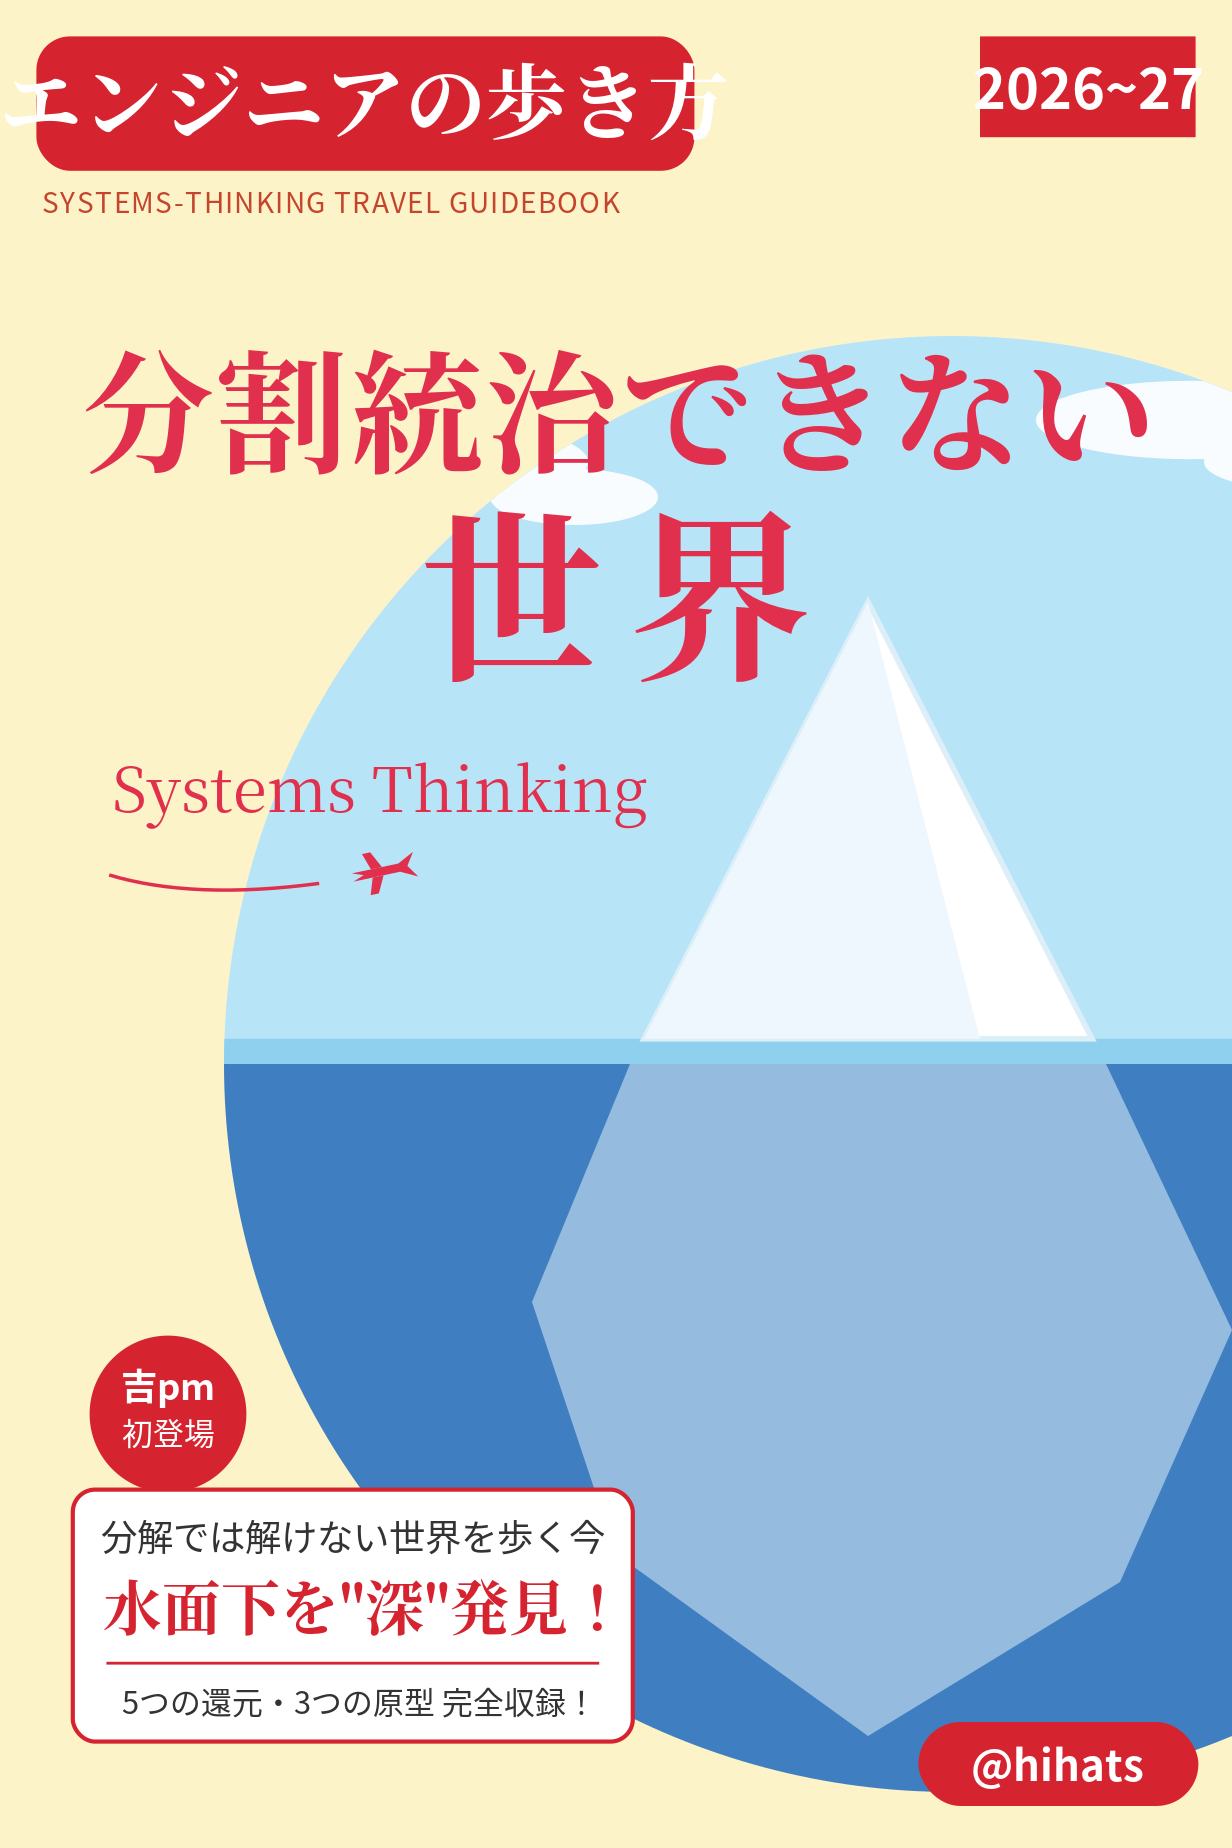
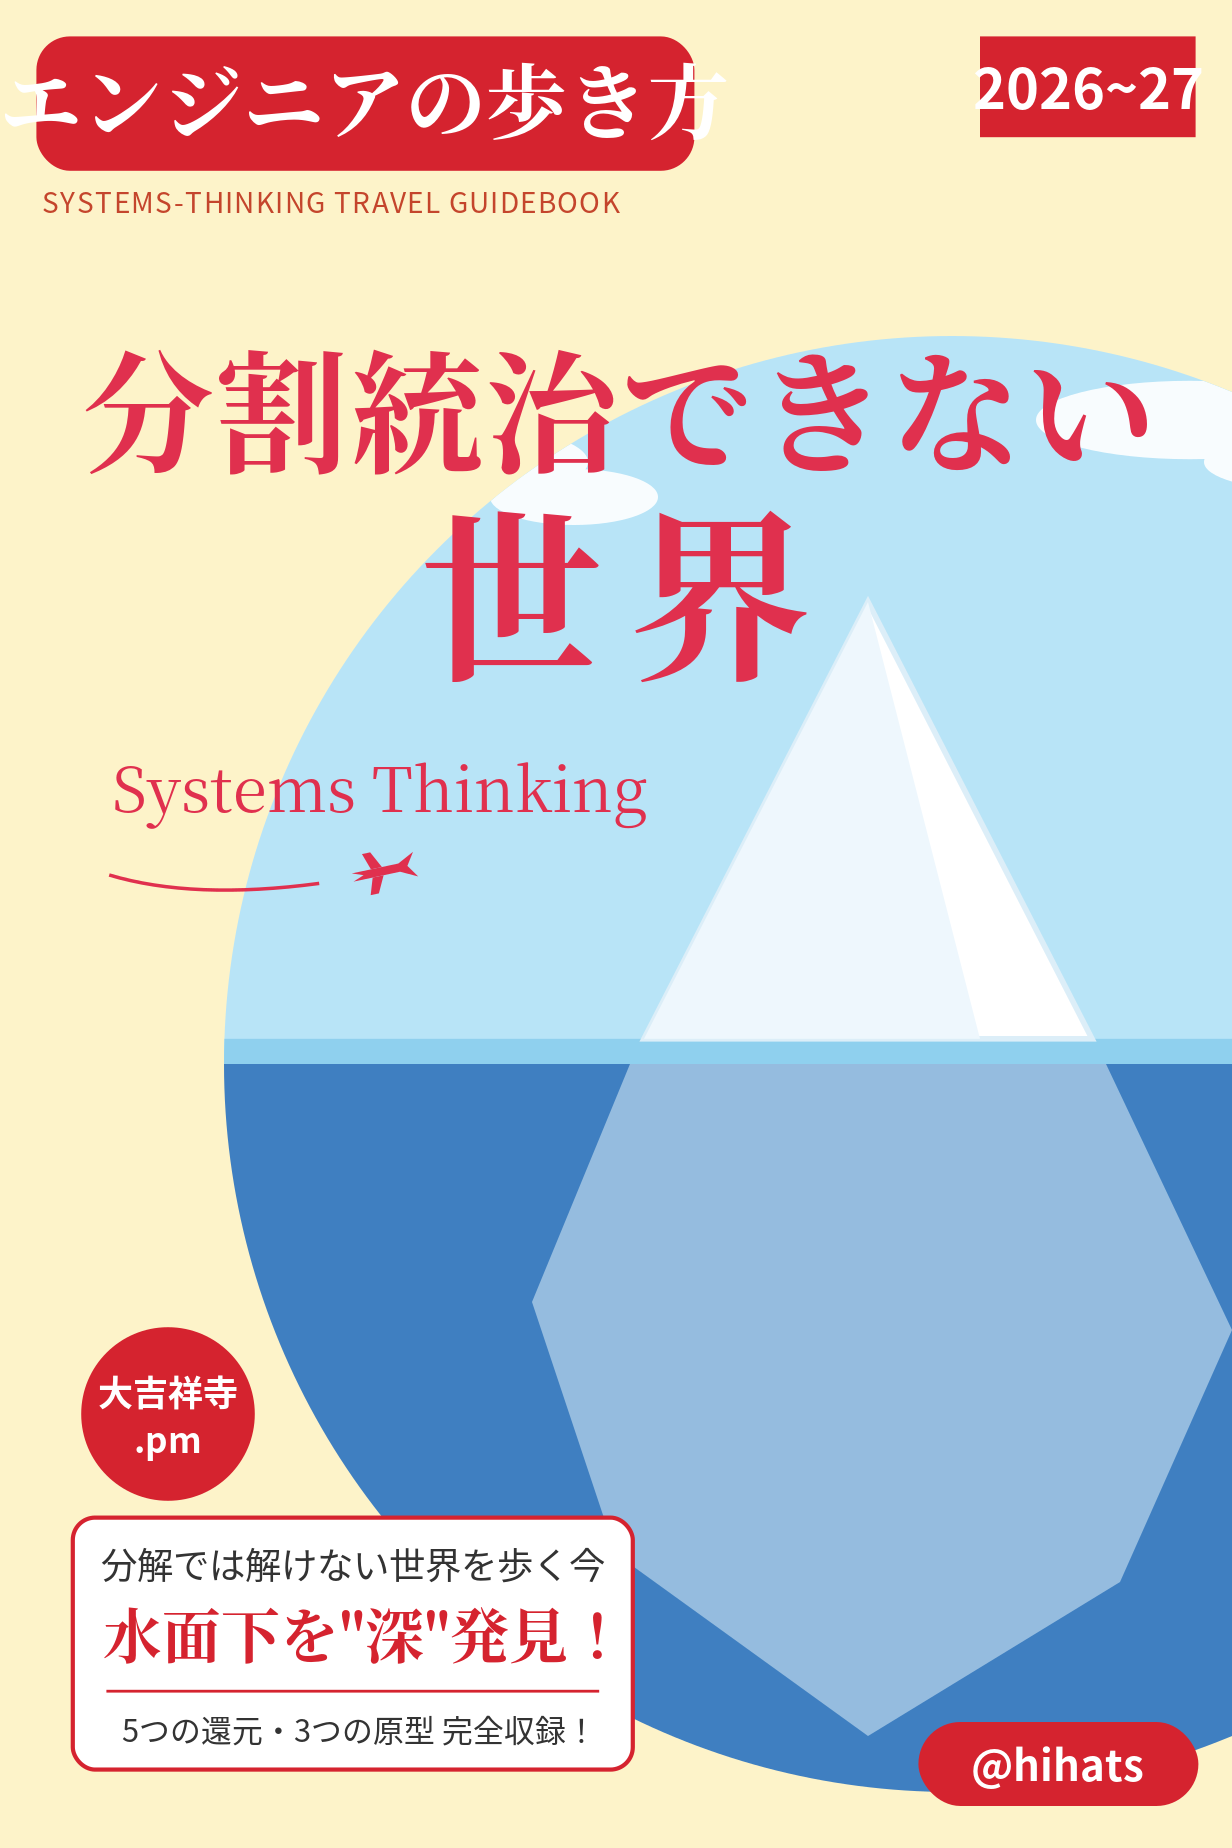
Update beyond_divide_and_conquer deck content and cover image
Restores the author's authoritative draft (naming fallacy aside,
self-deprecating notes) that had diverged in an editor session still
pointing at the old pre-rename path, while keeping the OGP image URL
and meme image reference aligned to the current directory.

Changed region(s): [[0.0617, 0.7094, 0.5244, 0.9562]]

diff --git a/src/beyond_divide_and_conquer/index.md b/src/beyond_divide_and_conquer/index.md
@@ -96,6 +96,16 @@ _class: nolead
 
 ![bg right:52% fit](images/reductionism_history.png)
 
+
+## システム思考とは
+
+**要素そのものではなく、要素間の相互作用からシステム全体の振る舞いを理解する**考え方
+
+- 分解して部分を調べる「分析」の、ちょうど対になる見方 — 関係・フィードバック・遅延に注目する
+- 道具は因果ループ図、ストックとフロー、氷山モデルなど — 今日これから実物が全部登場する
+
+身近な例は自然渋滞。全員がまともに運転していても、車間と速度の相互作用だけで渋滞は発生する — **誰も悪くないのに、全体として起きる**現象を扱う
+
 ## インデックス
 
 | | セクション | 内容 |
@@ -107,88 +117,40 @@ _class: nolead
 | §5 | 源流 | 70年繰り返されてきた知的系譜（時間次第） |
 | §6 | まとめ | 持ち帰りと結論 |
 
-## システム思考とは
+## 歩き方の地図
 
-**要素そのものではなく、要素間の相互作用からシステム全体の振る舞いを理解する**考え方
-
-- 分解して部分を調べる「分析」の、ちょうど対になる見方 — 関係・フィードバック・遅延に注目する
-- 道具は因果ループ図、ストックとフロー、氷山モデルなど — 今日これから実物が全部登場する
-
-身近な例は自然渋滞。全員がまともに運転していても、車間と速度の相互作用だけで渋滞は発生する — **誰も悪くないのに、全体として起きる**現象を扱う
-
-## このトークの地図
-
-いまのインデックスを、一枚の地図にして渡しておく
+いまのインデックスを、一枚の地図にしておく
 
 システム思考の標準的な教え方である**氷山モデル**に沿って、水面から海底へ潜っていく
 
 ![bg right:58% fit](images/iceberg_deck_map.png)
 
-
-ここで役立つのがシステム思考
-
-## 「部品」レベルでは、誰も間違えていない
-
-共通点はひとつ。
-
-分解した瞬間に、**部品の間にあった相互作用が視界から消える**こと
-
-*相互作用が支配的な問題では*、これが致命傷になる
-
-
-## なぜ「貢献」が見えないのか
+## システム思考を使って掘り下げていくと
 
 - 開発側の説明不足？
 - 経営側の認知の問題？
 
-— どちらでもなく、**構造の問題**
+— どちらでもなく、**構造の問題** だとわかるし
+もっと掘り下げると、自分の思考の型の限界だとわかってくる
 
-## 因果の捉え方がそもそも違う
 
-事業執行者の（一般的な）思考パターン
+## 言い換えると、構造の問題だということは、元々頭で分かってはいたりする
+- 局所最適解はだめだよね〜
+- 単一指標だけ追っていても
 
-![bg right:55% fit](../images/linear_model.png)
-
-## 開発の現実
-
-プラットフォームビジネスにおける因果ループ図
-
-![bg right:60% fit](../images/cld_product_development.png)
-
-## 投入と成果の因果が「時間的に切断」されている
-
-- 各要素が相互に影響し、**遅延を伴う自己強化ループ**を形成する
-- **今期の投資を今期の利益で測ること自体に無理がある** — だが、半期業績を度外視するのは事業会社にはほぼ不可能
-
-![bg right:55% fit](../images/cld_product_development.png)
-
-## 線形思考 vs 非線形思考の衝突 — に見えていた
-
-「プロダクト事業は単純ではない」と頭で分かっていても、瞬時の経営判断に時間をかけられず、結果として線形的な思考に戻ってしまう
-
-## さらに状況を複雑にしていること
-
-各部門が **自分の持ち場で「正しい」判断をしている**（と思っている）のに全体としての成果が現れない
-
-- エンジニアはコード品質・アーキテクチャを最適化する
-- マーケティングは顧客獲得を最適化する
-- 不正利用対策チームはかなりの不正を撲滅している
-- 財務は四半期の数字を確実に締めている
-
-## ハーバート・サイモンの「限定合理性」
-
-人は自分の持つ情報の範囲で**極めて合理的に**意思決定する
-
-**利益への影響や相互の関連性が「見えない場所」にあることが問題の本質**
-
-## ここまでは割と誰でも気づく
 
 ## が、本当の躓きはもっと奥にあった
 
 - 局所最適がだめだと頭で分かっていても、実際には **問題を分解して解決するという局所最適の罠** にはまっていた
 - これはエンジニアが得意とし、思考の習慣と化していた **「Divide and Conquer」≒ 還元主義** の限界を示していた
+- （例）分解すると分解したものに名前をつける
+  * 名前をつけると、その対象について理解した気になる
+  * 「命名の誤謬（Nominal Fallacy）」という典型的な人間の認知バイアス
 
 ## 還元主義の問題を、還元主義で解こうとしていた
+* 自分の思考パターンに気づくことから始めないといけない
+* 自己認識とか嫌いなタイプだしどうしよう
+
 
 ## 症状の解剖 — 5種類の還元が同時に起きている
 
